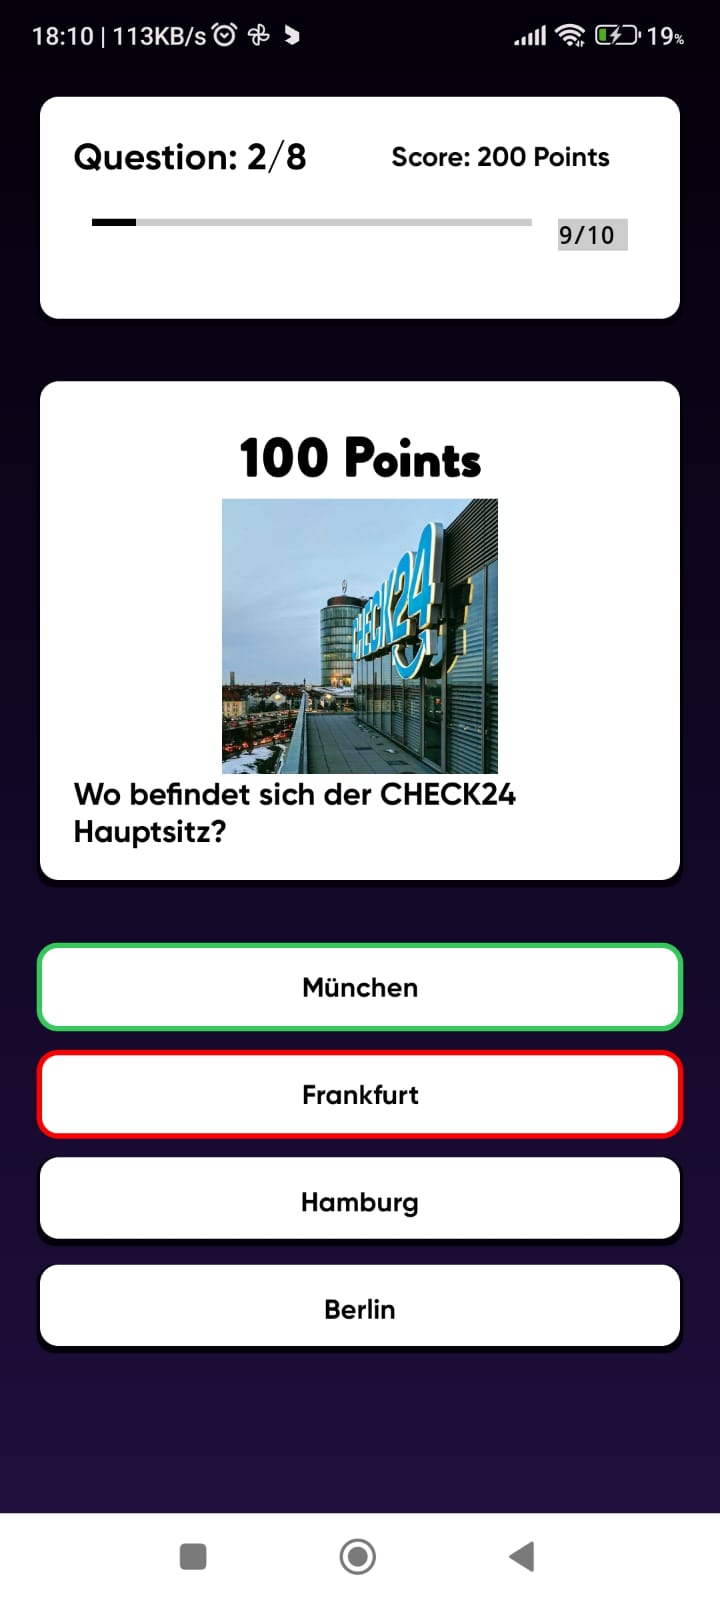
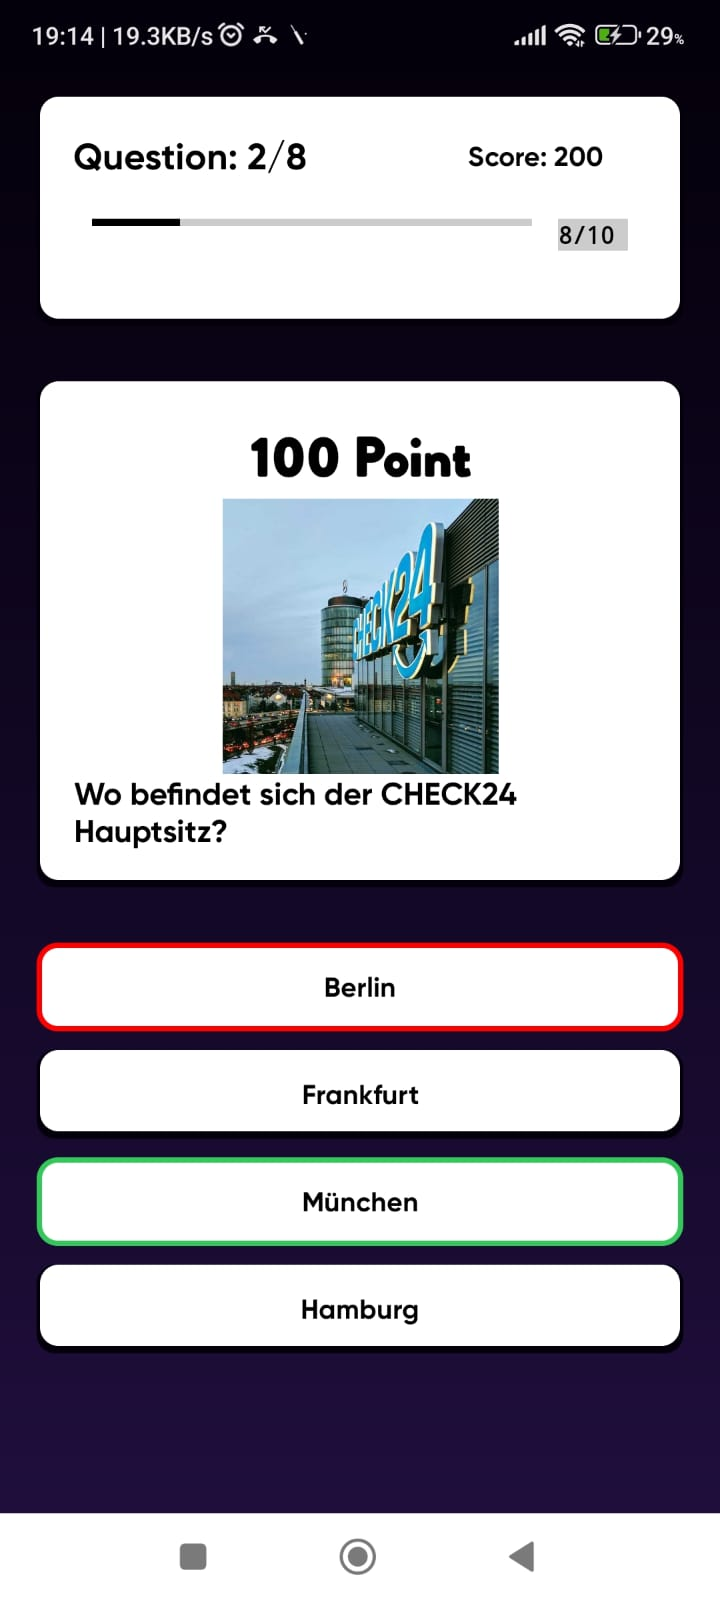
minor changes

diff --git a/app/src/main/java/com/mutsuddi_s/quizapp/ui/quizfragment/QuizFragment.kt b/app/src/main/java/com/mutsuddi_s/quizapp/ui/quizfragment/QuizFragment.kt
@@ -107,7 +107,7 @@ class QuizFragment : Fragment() {
         // Observe the player's score
         viewModel.score.observe(viewLifecycleOwner){
             Log.d(TAG, "onViewCreated: $it")
-            binding.score.text="Score: $it Points"
+            binding.score.text="Score: $it "
         }
 
         // Observe navigation events
@@ -120,7 +120,7 @@ class QuizFragment : Fragment() {
             }
         }
 
-        //check
+        // Set content fot Compose view
         binding.composeTimer.setContent {
             timer()
         }
@@ -247,7 +247,7 @@ class QuizFragment : Fragment() {
 
         // Set the question text and score
         binding.question.text = question.question
-        binding.txtPoint.text = "${question.score} Points"
+        binding.txtPoint.text = "${question.score} Point"
 
 
 
